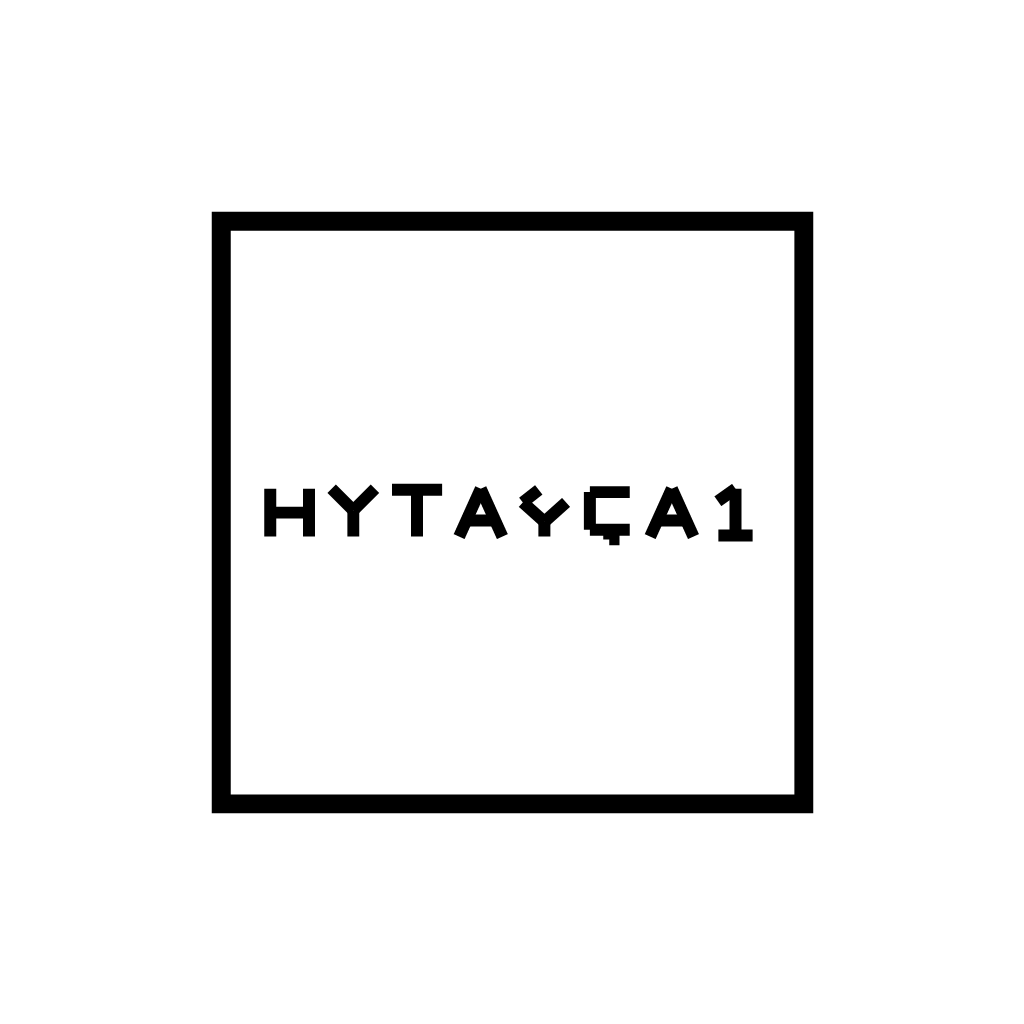
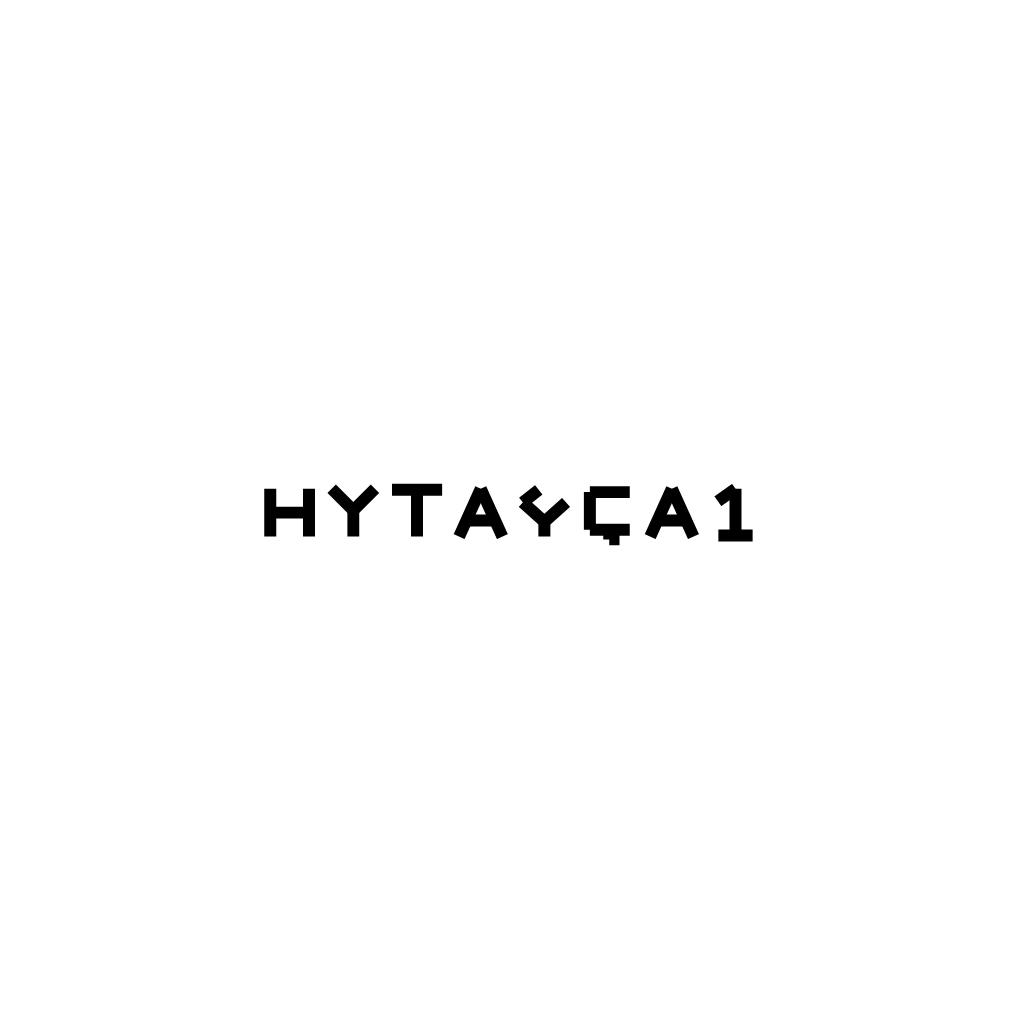
Иконка: рамка убрана из Android-слоёв и сплеша — круглая маска резала углы (раздел 1 RELEASE.md закрыт)

Changed region(s): [[0.1875, 0.1875, 0.8125, 0.8125]]

diff --git a/RELEASE.md b/RELEASE.md
@@ -20,11 +20,20 @@ npx expo run:android
 
 Что смотреть, по пунктам:
 
-- [ ] **Иконка в лаунчере.** Надпись читается? На старых плотных экранах она рисуется мельче
-- [ ] **Форма маски.** Android режет иконку в круг, квадрат со скруглением или каплю — в зависимости от прошивки. Рамка знака не должна обрезаться. Передний слой вписан в безопасную зону 66%, но проверить надо глазами
-- [ ] **Тематическая иконка.** Настройки → Обои и стиль → Темы значков (Android 13+). Должен появиться монохромный силуэт, не пустой квадрат
-- [ ] **Сплеш.** Красный фон, знак по центру, без белой рамки вокруг экрана
-- [ ] **Ярлык под иконкой** — `Hytaý dili 1`, туркменские буквы не бьются
+- [x] **Иконка в лаунчере.** Надпись читается? На старых плотных экранах она рисуется мельче
+- [x] **Форма маски.** Android режет иконку в круг, квадрат со скруглением или каплю — в зависимости от прошивки. Рамка знака не должна обрезаться. Передний слой вписан в безопасную зону 66%, но проверить надо глазами
+- [x] **Тематическая иконка.** Настройки → Обои и стиль → Темы значков (Android 13+). Должен появиться монохромный силуэт, не пустой квадрат
+- [x] **Сплеш.** Красный фон, знак по центру, без белой рамки вокруг экрана
+- [x] **Ярлык под иконкой** — `Hytaý dili 1`, туркменские буквы не бьются
+
+**Проверено на эмуляторе Pixel 9 Pro 2026-08-07 — все пункты пройдены, но после фикса.**
+Первая сборка показала: круглая маска резала углы рамки знака — в лаунчере, в тематической
+иконке и на сплеше (Android 12+ прижимает сплеш-иконку в невидимый круг). Причина: безопасная
+зона 66% — это круг; рамка 603 px по стороне проходила по ширине, но её диагональ 853 px >
+диаметра круга 676 px. Решение владельца (из трёх вариантов): **на Android-слоях рамку убрать** —
+`android-icon-foreground.png`, `android-icon-monochrome.png`, `splash-icon.png` теперь только
+надпись (диагональ 493 px, влезает с запасом); `icon.png` для iOS/сторов остался с рамкой.
+⚠ Зеркало исходников в `D:\desktop\hytay-logo\` не обновлялось — там лежат версии с рамкой.
 
 Файлы, если понадобится править: `assets/images/icon.png`, `android-icon-foreground.png`,
 `android-icon-monochrome.png`, `splash-icon.png`. Настройки — в `app.json`, блок `android.adaptiveIcon`
